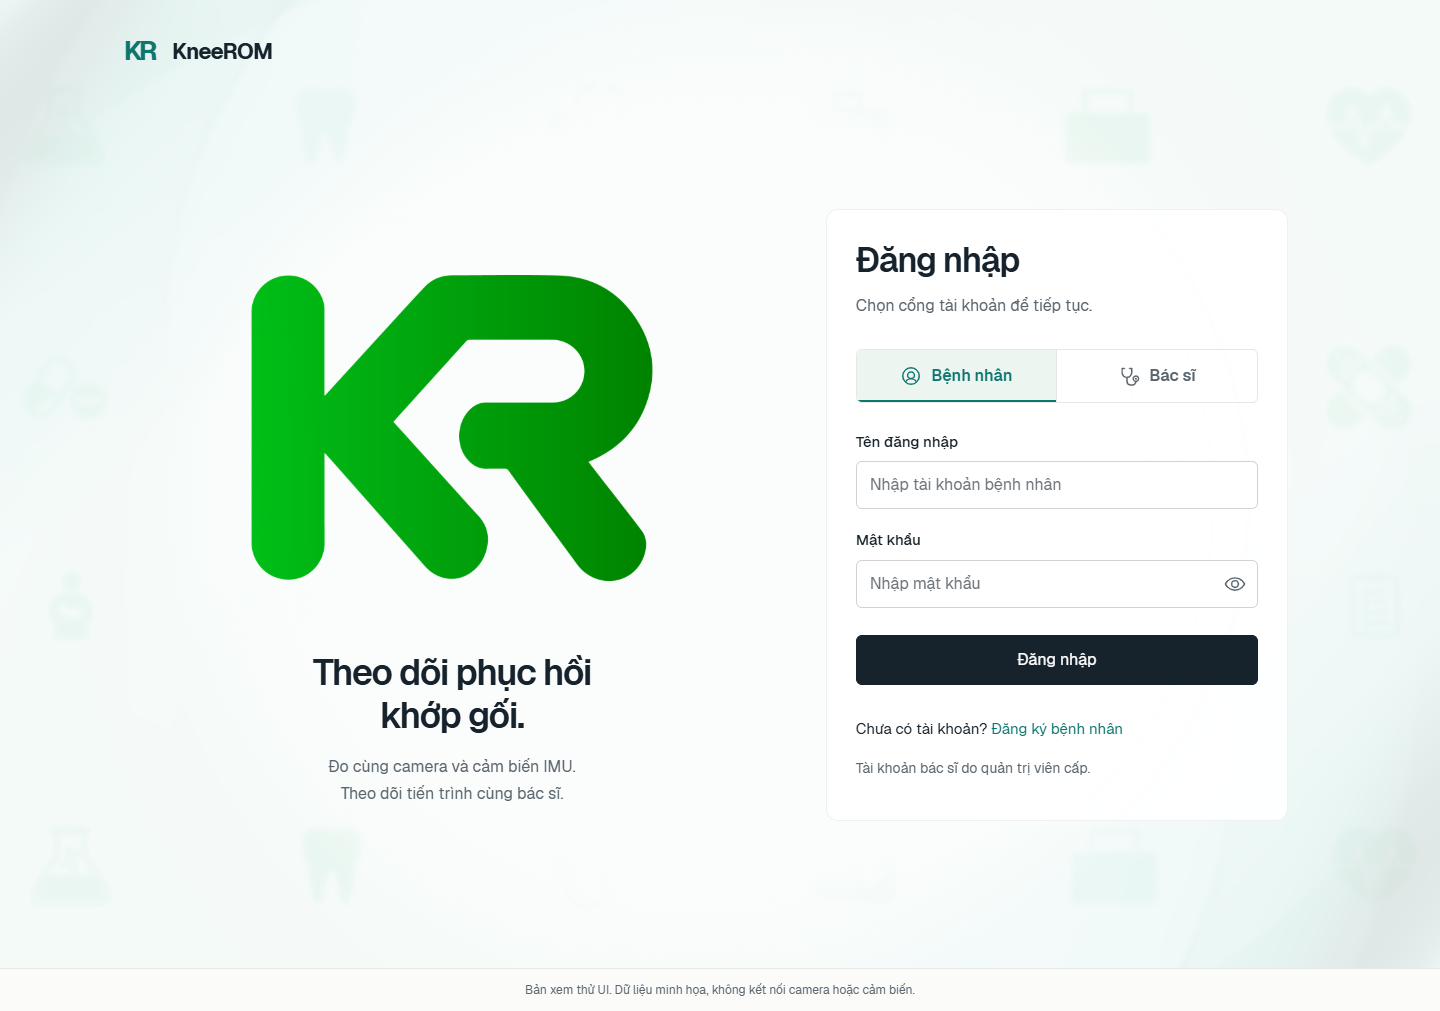
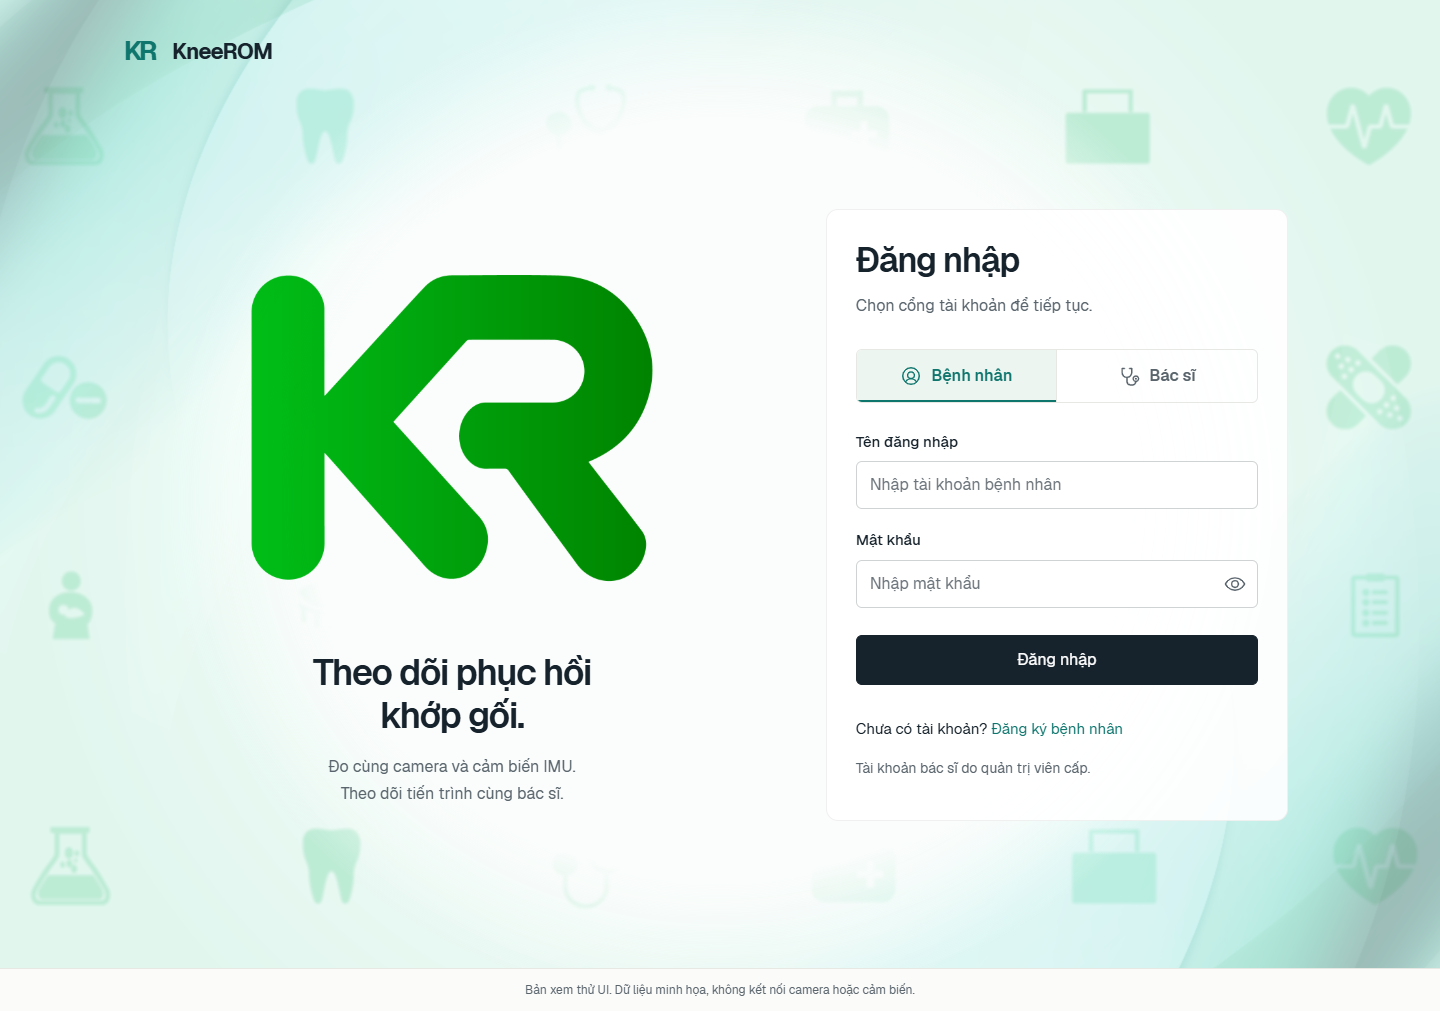
Make login medical background visible while retaining readable forms

diff --git a/aclproject2-main/aclproject2-main/static/portal-ui.css b/aclproject2-main/aclproject2-main/static/portal-ui.css
@@ -2427,11 +2427,11 @@ body.patient-portal-page {
   max-width: none;
   object-fit: cover;
   object-position: center;
-  filter: blur(2.5px) saturate(0.7);
+  filter: blur(0.6px) saturate(0.95);
   transition: opacity 420ms ease;
 }
 .auth-wallpaper-patient {
-  opacity: 0.22;
+  opacity: 0.68;
 }
 .auth-wallpaper-doctor {
   opacity: 0;
@@ -2440,7 +2440,7 @@ body.patient-portal-page {
   opacity: 0;
 }
 .page-auth[data-portal="doctor"] .auth-wallpaper-doctor {
-  opacity: 0.18;
+  opacity: 0.48;
 }
 .auth-intro-branded .auth-brand-art {
   background: transparent;
@@ -2462,10 +2462,10 @@ body.patient-portal-page {
 }
 @media (max-width: 760px) {
   .auth-wallpaper-patient {
-    opacity: 0.16;
+    opacity: 0.54;
   }
   .page-auth[data-portal="doctor"] .auth-wallpaper-doctor {
-    opacity: 0.14;
+    opacity: 0.38;
   }
   .page-auth .auth-panel::before {
     inset: -16px;

diff --git a/aclproject2-main/aclproject2-main/home.html b/aclproject2-main/aclproject2-main/home.html
@@ -19,7 +19,7 @@
     />
     <link
       rel="stylesheet"
-      href="{{ url_for('static', filename='portal-ui.css', v='login-wallpaper-preview-3') }}"
+      href="{{ url_for('static', filename='portal-ui.css', v='login-wallpaper-visible-4') }}"
     />
     <script src="{{ url_for('static', filename='rehab.js') }}" defer></script>
     <script
